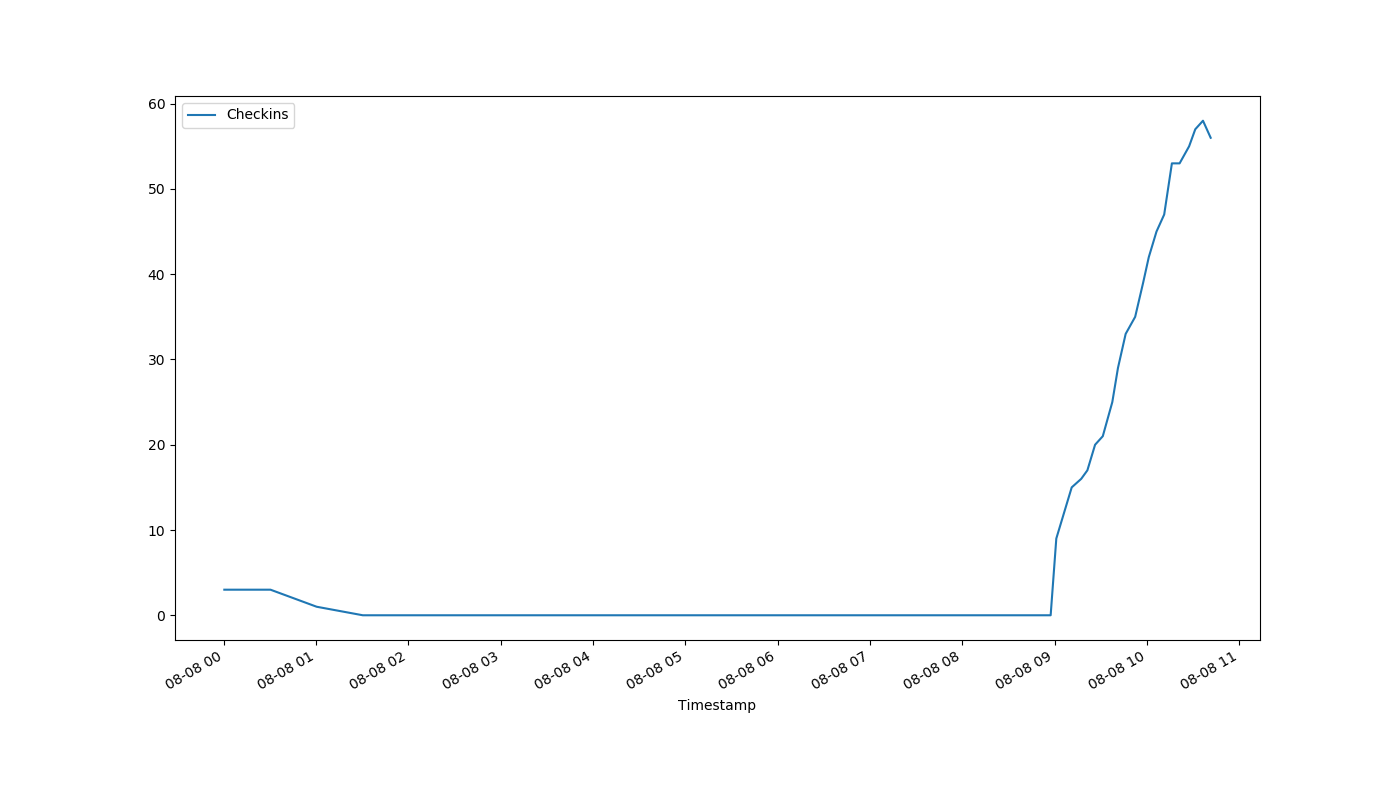
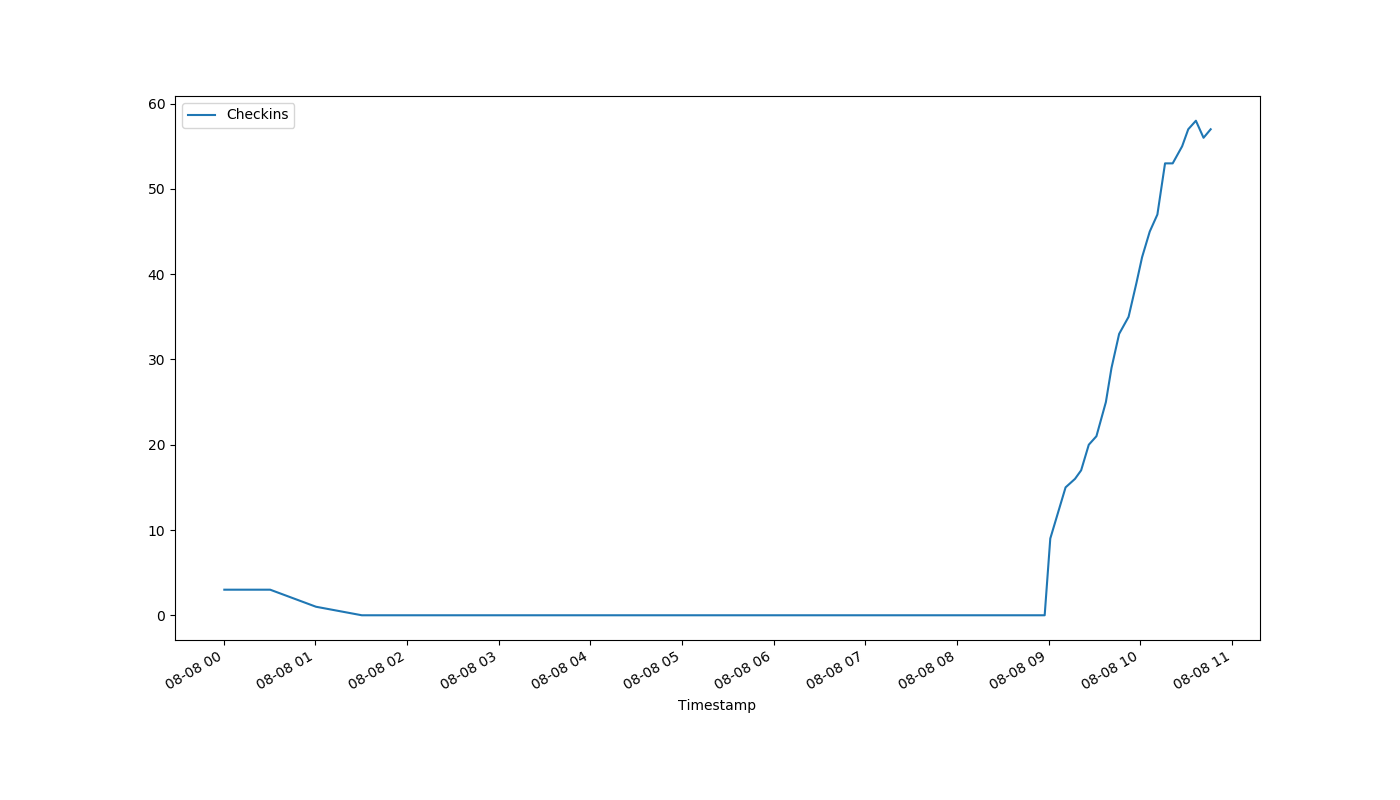
auto-Aug-08-10:47:27

diff --git a/index.html b/index.html
@@ -1,1 +1,1 @@
-<!DOCTYPE html><html><head><meta http-equiv="refresh" content="30"><link rel='stylesheet' href='holmcurrent.css'></head><body><p id='count'>56</p><div id='graph-wrap'><img id='graph' src='holmgraph-Aug-08.png'></div><p id='updated'>Last updated 10:42:07 / 10:41:19</p></body></html>
+<!DOCTYPE html><html><head><meta http-equiv="refresh" content="30"><link rel='stylesheet' href='holmcurrent.css'></head><body><p id='count'>57</p><div id='graph-wrap'><img id='graph' src='holmgraph-Aug-08.png'></div><p id='updated'>Last updated 10:46:08 / 10:46:00</p></body></html>
